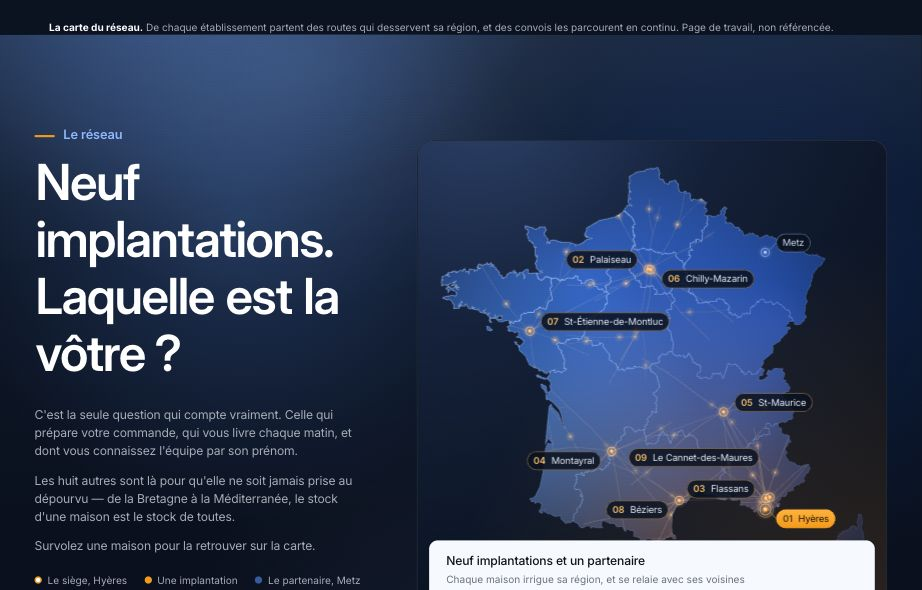
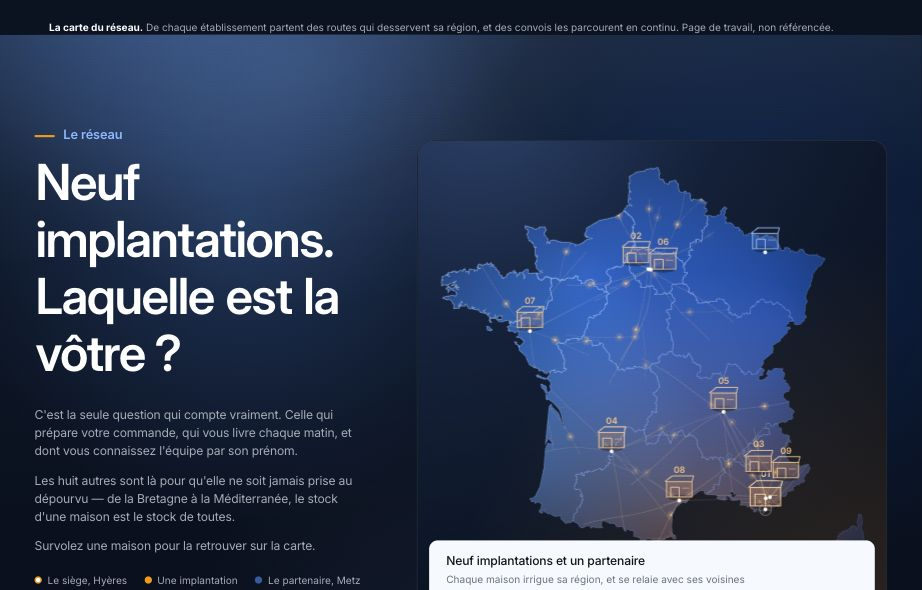
design(site-integral): chaque etablissement est un batiment pose a son emplacement

diff --git a/site-integral/site-2026/cartes/carte-11.html b/site-integral/site-2026/cartes/carte-11.html
@@ -348,104 +348,96 @@ var LIEUX = [
       ctx.fillStyle=c; ctx.beginPath(); ctx.arc(p.x,p.y,r0,0,6.2832); ctx.fill();
     }
   }
-  /* ── la plaque d'établissement ────────────────────────────────────────────
-     Chaque maison porte une plaque, dans le langage du site : la pilule, son filet
-     d'un pixel, l'orange en accent et les chiffres tabulaires. Le siège porte la
-     plaque pleine, le partenaire une plaque bleue sans numéro. Un pied fin relie
-     la plaque à l'emplacement exact, qui reste marqué par son anneau.
-     Les plaques sont d'abord toutes calculées, puis écartées si elles se touchent,
-     et seulement ensuite dessinées : à toute largeur, aucune n'en recouvre une autre. */
-  function pilule(x,y,w,h,r){
-    if (ctx.roundRect){ ctx.beginPath(); ctx.roundRect(x,y,w,h,r); return; }
-    ctx.beginPath();
-    ctx.moveTo(x+r,y); ctx.lineTo(x+w-r,y); ctx.arcTo(x+w,y,x+w,y+r,r);
-    ctx.lineTo(x+w,y+h-r); ctx.arcTo(x+w,y+h,x+w-r,y+h,r);
-    ctx.lineTo(x+r,y+h); ctx.arcTo(x,y+h,x,y+h-r,r);
-    ctx.lineTo(x,y+r); ctx.arcTo(x,y,x+r,y,r); ctx.closePath();
+  /* ── l'établissement : un bâtiment posé à son emplacement ─────────────────
+     Chaque maison est un petit bâtiment au trait — corps, toit en pente, quai de
+     chargement — et non un point. Le siège est plus grand et porte son anneau ;
+     le partenaire de Metz est bleu et sans numéro.
+     Trois maisons se touchent dans le Var : les bâtiments sont d'abord tous
+     calculés, écartés s'ils se recouvrent, puis reliés par un fil à leur
+     emplacement exact — qui reste marqué par un point. On ne déplace jamais le
+     lieu, seulement son dessin. */
+  function batiGeom(i){
+    var o=LIEUX[i], p=PTS[i], siege=!!o.siege;
+    var w = S*(siege?0.072:0.060), h = w*0.86;
+    return {i:i,o:o,p:p, x:p.x-w/2, y:p.y-h-(petit?3:5), w:w, h:h, dx:0, dy:0};
   }
-  function geometrie(i, vif){
-    var o=LIEUX[i], p=PTS[i];
-    var fs = petit?12:13, pad = petit?7:9, h = petit?22:26;
-    var num = o.part ? '' : o.c;
-    ctx.font = '600 ' + fs + 'px Inter, ui-sans-serif, system-ui, sans-serif';
-    var wNum = num ? ctx.measureText(num).width : 0;
-    ctx.font = (vif?'500 ':'400 ') + fs + 'px Inter, ui-sans-serif, system-ui, sans-serif';
-    var wNom = ctx.measureText(o.eti).width;
-    var ecart = num ? (petit?6:8) : 0, W = pad + wNum + ecart + wNom + pad, marge = 8;
-    var sens = o.ax, x = sens>0 ? p.x + 15 : p.x - 15 - W;
-    var y = p.y + o.ay*13 + (o.oy||0) - h/2;
-    if (x + W > L - marge){ if (p.x - 15 - W >= marge){ sens=-1; x = p.x - 15 - W; } else x = L - marge - W; }
-    if (x < marge){ if (p.x + 15 + W <= L - marge){ sens=1; x = p.x + 15; } else x = marge; }
-    y = Math.min(Math.max(marge, y), H - marge - h);
-    return {i:i, o:o, p:p, vif:vif, x:x, y:y, W:W, h:h, fs:fs, pad:pad,
-            num:num, wNum:wNum, ecart:ecart, sens:sens};
-  }
-  function ecarter(G){
-    var marge = 8, jeu = 3;
-    for (var tour=0; tour<6; tour++){
-      var bouge = false;
+  function ecarterBati(G){
+    var jeu = S*0.006;
+    for (var tour=0; tour<8; tour++){
+      var bouge=false;
       for (var a=0;a<G.length;a++) for (var b=a+1;b<G.length;b++){
         var A=G[a], B=G[b];
-        if (A.x < B.x+B.W+jeu && B.x < A.x+A.W+jeu &&
-            A.y < B.y+B.h+jeu && B.y < A.y+A.h+jeu){
-          var dep = ((A.y<B.y ? A.y+A.h - B.y : B.y+B.h - A.y) + jeu) / 2;
-          var haut = A.y < B.y ? A : B, bas = A.y < B.y ? B : A;
-          if (haut.o.siege){ bas.y += dep*2; }            /* le siège ne bouge pas */
-          else if (bas.o.siege){ haut.y -= dep*2; }
-          else { haut.y -= dep; bas.y += dep; }
-          haut.y = Math.max(marge, haut.y);
-          bas.y  = Math.min(H - marge - bas.h, bas.y);
-          bouge = true;
+        var ax=A.x+A.dx, ay=A.y+A.dy, bx=B.x+B.dx, by=B.y+B.dy;
+        if (ax<bx+B.w+jeu && bx<ax+A.w+jeu && ay<by+B.h+jeu && by<ay+A.h+jeu){
+          var cx=(ax+A.w/2)-(bx+B.w/2), cy=(ay+A.h/2)-(by+B.h/2);
+          var n=Math.sqrt(cx*cx+cy*cy)||1, d2=(A.w+B.w)/2+jeu-n;
+          if (d2<=0) continue;
+          var ux=cx/n*d2*0.5, uy=cy/n*d2*0.5;
+          if (A.o.siege){ B.dx-=ux*2; B.dy-=uy*2; }
+          else if (B.o.siege){ A.dx+=ux*2; A.dy+=uy*2; }
+          else { A.dx+=ux; A.dy+=uy; B.dx-=ux; B.dy-=uy; }
+          bouge=true;
         }
       }
-      if (!bouge) break;
+      if(!bouge) break;
+    }
+    for (var k=0;k<G.length;k++){
+      var g=G[k];
+      g.x=Math.min(Math.max(6,g.x+g.dx), L-6-g.w);
+      g.y=Math.min(Math.max(6,g.y+g.dy), H-6-g.h);
     }
     return G;
   }
-  function tracerPlaque(g){
-    var o=g.o, p=g.p, siege=!!o.siege, part=!!o.part, r=g.h/2;
-    ctx.strokeStyle = part ? 'rgba(150,190,255,.42)' : 'rgba(255,190,120,.48)';
-    ctx.lineWidth = 1;
+  function tracerBati(g, vif){
+    var o=g.o, p=g.p, siege=!!o.siege, part=!!o.part;
+    var x0=g.x, y0=g.y, w=g.w, h=g.h;
+    var chaud = part ? 'rgba(170,205,255,' : 'rgba(255,214,160,';
+    /* le fil vers l'emplacement exact, si le bâtiment a dû s'écarter */
+    var cxb=x0+w/2, cyb=y0+h;
+    if (Math.abs(cxb-p.x)>1.5 || Math.abs(cyb-p.y)>1.5){
+      ctx.strokeStyle = chaud+'.42)'; ctx.lineWidth=1;
+      ctx.beginPath(); ctx.moveTo(cxb,cyb); ctx.lineTo(p.x,p.y); ctx.stroke();
+    }
+    /* l'ombre au sol, puis le volume */
+    ctx.fillStyle='rgba(0,0,0,.34)'; ctx.beginPath();
+    ctx.ellipse(x0+w/2, y0+h+1, w*0.46, w*0.11, 0, 0, 6.2832); ctx.fill();
+    var gb=ctx.createLinearGradient(x0,y0,x0,y0+h);
+    gb.addColorStop(0, part?'rgba(120,165,240,.30)':(siege?'rgba(255,190,110,.36)':'rgba(255,175,90,.26)'));
+    gb.addColorStop(1, part?'rgba(90,130,215,.14)':'rgba(255,150,60,.12)');
+    ctx.fillStyle=gb; ctx.fillRect(x0, y0+h*0.30, w, h*0.70);
+    ctx.strokeStyle = chaud + (vif?'1)':(siege?'.95)':'.80)'));
+    ctx.lineWidth=Math.max(1, S*0.0024); ctx.lineJoin='round';
+    ctx.strokeRect(x0, y0+h*0.30, w, h*0.70);
     ctx.beginPath();
-    ctx.moveTo(p.x + (g.sens>0?7:-7), p.y + o.ay*4);
-    ctx.lineTo(g.sens>0 ? g.x : g.x + g.W, g.y + g.h/2);
-    ctx.stroke();
-    pilule(g.x, g.y, g.W, g.h, r);
-    if (siege){
-      var gr = ctx.createLinearGradient(g.x,g.y,g.x,g.y+g.h);
-      gr.addColorStop(0,'#FFB23C'); gr.addColorStop(1,'#F39A1B');
-      ctx.fillStyle = gr; ctx.fill();
-    } else {
-      ctx.fillStyle = g.vif ? 'rgba(12,20,36,.94)' : 'rgba(10,17,31,.86)';
-      ctx.fill();
-      ctx.strokeStyle = part ? 'rgba(150,190,255,.52)'
-                             : (g.vif ? 'rgba(255,206,140,.85)' : 'rgba(255,196,107,.46)');
-      ctx.lineWidth = 1; pilule(g.x+.5, g.y+.5, g.W-1, g.h-1, r-.5); ctx.stroke();
+    ctx.moveTo(x0-w*0.06, y0+h*0.30); ctx.lineTo(x0+w*0.22, y0+h*0.04);
+    ctx.lineTo(x0+w*1.06, y0+h*0.04); ctx.lineTo(x0+w, y0+h*0.30); ctx.stroke();
+    ctx.beginPath();
+    ctx.moveTo(x0+w*0.16, y0+h); ctx.lineTo(x0+w*0.16, y0+h*0.56);
+    ctx.lineTo(x0+w*0.50, y0+h*0.56); ctx.lineTo(x0+w*0.50, y0+h); ctx.stroke();
+    ctx.strokeStyle = chaud+'.48)';
+    ctx.beginPath(); ctx.moveTo(x0+w*0.62, y0+h*0.60); ctx.lineTo(x0+w*0.90, y0+h*0.60); ctx.stroke();
+    /* l'emplacement exact */
+    ctx.fillStyle = part?'#EAF2FF':'#FFF8EC';
+    ctx.beginPath(); ctx.arc(p.x, p.y, Math.max(1.6, S*0.0045), 0, 6.2832); ctx.fill();
+    if (siege){ ctx.strokeStyle='rgba(255,222,170,.5)'; ctx.lineWidth=1;
+      ctx.beginPath(); ctx.arc(p.x, p.y, Math.max(5, S*0.014), 0, 6.2832); ctx.stroke(); }
+    /* le numéro, sur le toit */
+    if (!part){
+      var fs=Math.max(9, S*0.021);
+      ctx.font='600 '+fs.toFixed(1)+'px Inter, ui-sans-serif, system-ui, sans-serif';
+      ctx.textAlign='center'; ctx.textBaseline='middle';
+      ctx.fillStyle = vif?'#FFFFFF':(siege?'rgba(255,226,180,.98)':'rgba(255,204,140,.92)');
+      ctx.fillText(o.c, x0+w/2, y0-fs*0.55);
     }
-    ctx.textBaseline='middle'; ctx.textAlign='left';
-    var cx = g.x + g.pad, cy = g.y + g.h/2 + 0.5;
-    if (g.num){
-      ctx.font = '600 ' + g.fs + 'px Inter, ui-sans-serif, system-ui, sans-serif';
-      ctx.fillStyle = siege ? 'rgba(28,18,4,.72)' : 'rgba(255,196,107,.96)';
-      ctx.fillText(g.num, cx, cy);
-      cx += g.wNum + g.ecart;
-    }
-    ctx.font = (g.vif?'500 ':'400 ') + g.fs + 'px Inter, ui-sans-serif, system-ui, sans-serif';
-    ctx.fillStyle = siege ? '#1C1204' : (part ? 'rgba(214,230,255,.94)' : 'rgba(244,248,255,.95)');
-    ctx.fillText(o.eti, cx, cy);
   }
-  function plaques(){
+  function batiments(){
     var G=[];
-    for (var i=0;i<LIEUX.length;i++){
-      var vif = (i===vise);
-      if (petit && !vif) continue;
-      G.push(geometrie(i, vif));
-    }
-    ecarter(G);
-    for (var k=0;k<G.length;k++) tracerPlaque(G[k]);
+    for (var i=0;i<LIEUX.length;i++) G.push(batiGeom(i));
+    ecarterBati(G);
+    for (var k=0;k<G.length;k++) tracerBati(G[k], G[k].i===vise);
   }
 
-  function dessiner(tps){ sol(); pays(tps); reseauRoutier(tps); liens(); points(tps); plaques(); }
+  function dessiner(tps){ sol(); pays(tps); reseauRoutier(tps); liens(); batiments(); }
   function image(){ dessiner(performance.now()-t0); if (vivant && !DOUX) boucle=requestAnimationFrame(image); }
   function partir(){ if (vivant||DOUX) { if(DOUX) dessiner(0); return; } vivant=true; boucle=requestAnimationFrame(image); }
   function stopper(){ vivant=false; if(boucle) cancelAnimationFrame(boucle); boucle=null; }
